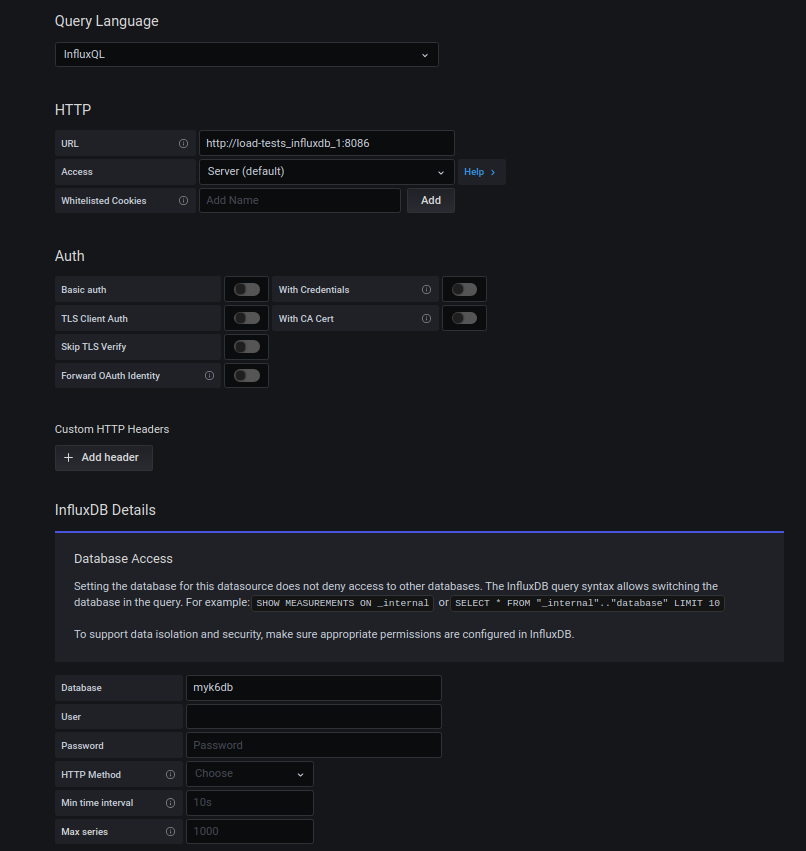
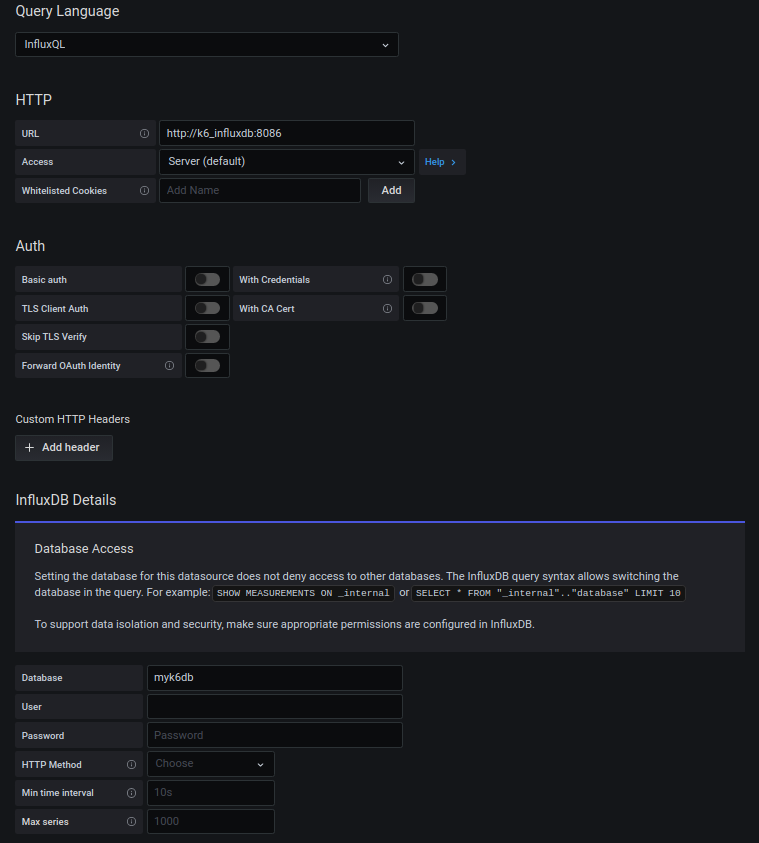
Fix README, script and compose

diff --git a/script_scenario_ramping_arrival_rate.js b/script_scenario_ramping_arrival_rate.js
@@ -3,7 +3,7 @@ import http from 'k6/http';
 
 
 export default function () {
-    const res = http.get("https://")
+    const res = http.get("https://api.thecatapi.com/v1/images/search")
     
     check(res, {
       'status 200': (r) => r.status === 200,
@@ -11,11 +11,6 @@ export default function () {
 }
 
 
-//https://k6.io/docs/using-k6/scenarios/executors/ramping-arrival-rate
-/*
-When you want to maintain a constant number of requests without being affected by the 
-performance of the system under test.
-*/
 export let options = {
   scenarios: {
     test: {

diff --git a/README.md b/README.md
@@ -1,5 +1,9 @@
 # Testes de carga com K6
 
+## Requerimentos
+
+- [Docker](https://www.docker.com/)
+
 ## Que diabos K6
 
 [K6](https://k6.io/docs/) uma ferramenta de teste carga gratuita e open-source. Desenvolvido para rodar testes de alta carga (spike, stress e soak) em ambientes de pré-produção e QA.
@@ -15,8 +19,6 @@ Você pode instalar o k6 na sua máquina ou pode rodar utilizando uma imagem doc
 
 Os testes com K6 são escritos em JavaScript. Como experimento, crie um arquivo simples:
 
-[Doc da API JavaScript do K6](https://k6.io/docs/javascript-api)
-
 ```javascript
 // script.js
 
@@ -28,18 +30,12 @@ export default function () {
 E tente rodar:
 
 ```bash
-docker run -i loadimpact/k6 run - <script.js
-```
-
-ou
-
-```bash
 docker run -v "$(pwd)":/test -i loadimpact/k6 run /test/script.js
 ```
 
 ## Rodando integração com o Grafana
 
-A integração com o Grafana faz uso do InfluxDB, um banco de dados de séries de temporais (por enquanto, não é possível utilizar o Prometheus no lugar do influxdb).
+A integração com o Grafana faz uso do InfluxDB, um banco de dados de séries de temporais.
 
 1. Rode o Grafana e o InfluxDB
 
@@ -47,27 +43,31 @@ A integração com o Grafana faz uso do InfluxDB, um banco de dados de séries d
     docker-compose up -d grafana influxdb
     ```
 
-2. Configure o datasource no Grafana em `Configuration > Data Sources > Add data source` com valores
+2. Acesse o [Grafana](http://localhost:3000) e para o login use:
 
-    > Nota: Ao acessar o Grafana ele te pedirá login e senha. Use qualquer credencial e depois dá um `skip` ;D
+    ```text
+        Usuário: admin
+        Senha:   admin
+    ```
+
+3. Configure o datasource no Grafana em [`Configuration > Data Sources > Add data source > Time series databases > InfluxDB`](http://localhost:3000/datasources/new) com valores
+
+    ```text
+        HTTP > URL:                  http://k6_influxdb:8086
+        InfluxDB Details > Database: myk6db
+    ```
 
     ![Influx](assets/influx_config.png)
 
-3. Crie ou importe um dashboard para os testes com K6. A própria [doc](https://k6.io/docs/results-visualization/influxdb-+-grafana/#preconfigured-grafana-dashboards) disponibiliza links para alguns dashboards já prontos. Teste com o dashboard [10660](https://grafana.com/grafana/dashboards/10660) ou [2587](https://grafana.com/grafana/dashboards/2587)
+4. A [doc](https://k6.io/docs/results-visualization/influxdb-+-grafana/#preconfigured-grafana-dashboards) disponibiliza links para alguns dashboards já prontos. Teste importar com o dashboard [10660](https://grafana.com/grafana/dashboards/10660) em [`Create > Import > Import via grafana.com`](http://localhost:3000/dashboard/import) selecionando o datasource criado no passo anterior em `InfluxDB`.
 
-4. Rode o script de teste
+5. Rode o script de teste
 
     ```bash
     docker-compose up k6
     ```
 
-5. (Opcional) Caso deseje ver os dados do influxdb num dashboard, rode o Chronograf
-
-    ```bash
-    docker-compose up -d chronograf
-    ```
-
-6. Acompanhe o dashboard no Grafana!
+6. Acompanhe o [dashboard](http://localhost:3000/d/XKhgaUpik) no Grafana! Você o encontrará em [`Dashboards > Manage`](http://localhost:3000/dashboards)
 
 ## Calculando a quantidade de Vus
 
@@ -111,3 +111,7 @@ RPS = 1000
 
 VU = RPS * T / R = 1000 * 6 / 10 = 600
 ```
+
+## Outros
+
+[Doc da API JavaScript do K6](https://k6.io/docs/javascript-api)
